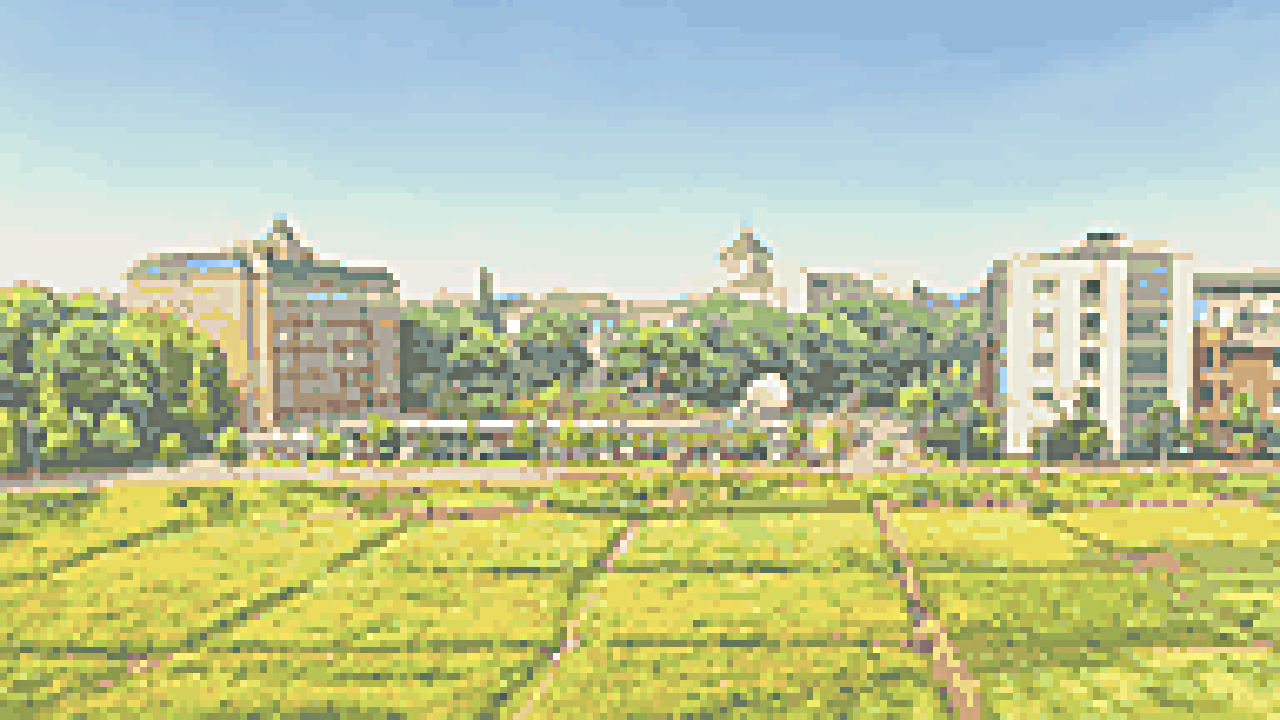
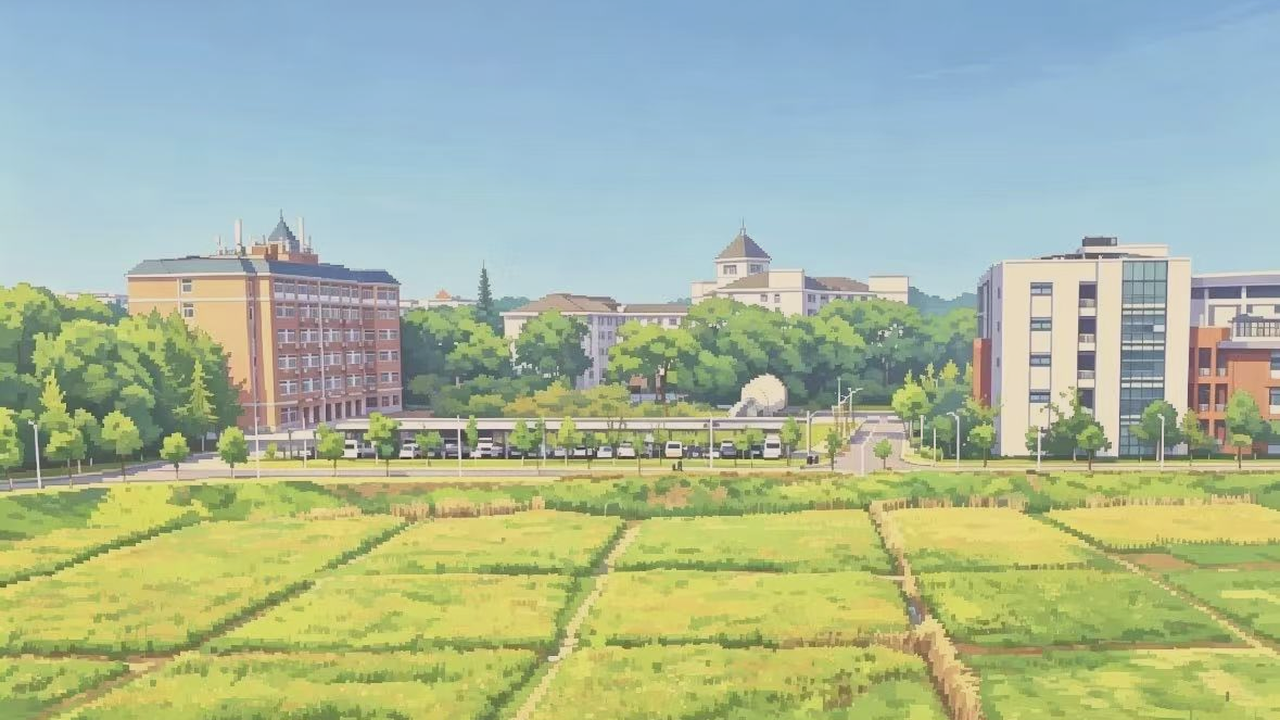
fix: stabilize homepage navigation and add campus updates

diff --git a/src/main.jsx b/src/main.jsx
@@ -98,7 +98,9 @@ function Sidebar({ active, setActive, user, onLogout }) {
 }
 
 function TopBar({ user, onCreate }) {
-  return <header className="topbar"><div className="mobile-brand brand"><span className="brand-mark"><Icon name="spark" size={16}/></span><span>拾光校园</span></div><div className="topbar-title"><span>星期三，9月 9日</span><strong>你好，{user.name}</strong></div><div className="topbar-actions"><button className="icon-btn" title="通知"><span className="notification-dot"/><Icon name="spark" size={18}/></button>{user.role === 'teacher' && <button className="primary-btn compact" onClick={onCreate}><Icon name="plus" size={16}/>发布活动</button>}<span className="avatar large">{user.name.slice(0, 1)}</span></div></header>;
+  const [notificationsOpen, setNotificationsOpen] = useState(false);
+  const [unread, setUnread] = useState(true);
+  return <header className="topbar"><div className="mobile-brand brand"><span className="brand-mark"><Icon name="spark" size={16}/></span><span>拾光校园</span></div><div className="topbar-title"><span>星期三，9月 9日</span><strong>你好，{user.name}</strong></div><div className="topbar-actions"><div className="notification-wrap"><button className={`icon-btn ${notificationsOpen ? 'active' : ''}`} title="校园动态" aria-label="打开校园动态" aria-expanded={notificationsOpen} onClick={() => { setNotificationsOpen(open => !open); setUnread(false); }}><span className={`notification-dot ${unread ? '' : 'is-read'}`}/><Icon name="spark" size={18}/></button>{notificationsOpen && <div className="notification-panel" role="status"><div className="notification-heading"><div><strong>校园动态</strong><span>及时了解活动变化</span></div><button className="notification-close" onClick={() => setNotificationsOpen(false)}><Icon name="close" size={14}/></button></div><div className="notification-item"><span className="notification-badge"><Icon name="calendar" size={14}/></span><div><strong>本周新增活动</strong><p>讲座、社团与运动活动正在持续更新。</p></div></div><div className="notification-item"><span className="notification-badge green"><Icon name="heart" size={14}/></span><div><strong>别忘了查看我的日程</strong><p>已报名的活动会集中显示在你的日程中。</p></div></div><button className="notification-action" onClick={() => { setNotificationsOpen(false); document.querySelector('.activity-section')?.scrollIntoView({ behavior: 'smooth', block: 'start' }); }}>浏览本周活动 <Icon name="arrow" size={14}/></button></div>}</div>{user.role === 'teacher' && <button className="primary-btn compact" onClick={onCreate}><Icon name="plus" size={16}/>发布活动</button>}<span className="avatar large">{user.name.slice(0, 1)}</span></div></header>;
 }
 
 function Hero({ onExplore }) {
@@ -129,7 +131,7 @@ function Overview({ user, onCreate, refreshToken = 0 }) {
   const load = async () => { setLoading(true); const params = new URLSearchParams({ status: 'published' }); if (query) params.set('q', query); if (category !== '全部') params.set('category', category); const { activities } = await api(`/activities?${params}`); setActivities(activities); setLoading(false); };
   useEffect(() => { load().catch(() => setLoading(false)); }, [query, category, refreshToken]);
   const join = async activity => { try { const { activity: updated } = await api(`/activities/${activity.id}/join`, { method: 'POST', body: JSON.stringify({ userId: user.id }) }); setActivities(items => items.map(item => item.id === updated.id ? updated : item)); setSelected(updated); setToast('报名成功，已加入你的日程'); setTimeout(() => setToast(''), 2600); } catch (err) { setToast(err.message); setTimeout(() => setToast(''), 2600); } };
-  return <div className="page-content"><Hero onExplore={() => document.querySelector('.activity-section')?.scrollIntoView({ behavior: 'smooth' })}/><section className="activity-section"><div className="section-heading"><div><span className="overline">DISCOVER</span><h2>本周值得参加</h2></div><button className="link-btn" onClick={() => { setCategory('全部'); setQuery(''); }}>查看全部 <Icon name="arrow" size={15}/></button></div><div className="toolbar"><div className="search-box"><Icon name="search" size={17}/><input value={query} onChange={e => setQuery(e.target.value)} placeholder="搜索活动、地点或组织方"/></div><div className="category-tabs">{categories.map(item => <button key={item} className={category === item ? 'active' : ''} onClick={() => setCategory(item)}>{item}</button>)}</div></div>{loading ? <div className="loading-state">正在加载活动…</div> : activities.length ? <div className="activity-grid">{activities.map(a => <ActivityCard key={a.id} activity={a} user={user} onJoin={join} onOpen={setSelected}/>)}</div> : <div className="empty-state"><div className="empty-icon"><Icon name="search" size={22}/></div><h3>没有找到匹配的活动</h3><p>换个关键词，或者看看全部活动。</p></div>}</section>{selected && <ActivityModal activity={selected} user={user} onClose={() => setSelected(null)} onJoin={join}/>} {toast && <div className="toast"><span><Icon name={toast.includes('成功') ? 'check' : 'spark'} size={15}/></span>{toast}</div>}</div>;
+  return <div className="page-content"><Hero onExplore={() => document.querySelector('.activity-section')?.scrollIntoView({ behavior: 'smooth', block: 'start' })}/><section className="activity-section"><div className="section-heading"><div><span className="overline">DISCOVER</span><h2>本周值得参加</h2></div><button className="link-btn" onClick={() => { setCategory('全部'); setQuery(''); }}>查看全部 <Icon name="arrow" size={15}/></button></div><div className="toolbar"><div className="search-box"><Icon name="search" size={17}/><input value={query} onChange={e => setQuery(e.target.value)} placeholder="搜索活动、地点或组织方"/></div><div className="category-tabs">{categories.map(item => <button key={item} className={category === item ? 'active' : ''} onClick={() => setCategory(item)}>{item}</button>)}</div></div>{loading ? <div className="loading-state">正在加载活动…</div> : activities.length ? <div className="activity-grid">{activities.map(a => <ActivityCard key={a.id} activity={a} user={user} onJoin={join} onOpen={setSelected}/>)}</div> : <div className="empty-state"><div className="empty-icon"><Icon name="search" size={22}/></div><h3>没有找到匹配的活动</h3><p>换个关键词，或者看看全部活动。</p></div>}</section>{selected && <ActivityModal activity={selected} user={user} onClose={() => setSelected(null)} onJoin={join}/>} {toast && <div className="toast"><span><Icon name={toast.includes('成功') ? 'check' : 'spark'} size={15}/></span>{toast}</div>}</div>;
 }
 
 function Manage({ user, onCreate, onEdit, refreshToken = 0 }) {

diff --git a/src/styles.css b/src/styles.css
@@ -11,4 +11,33 @@
 .hero-note{z-index:1}
 .cover-image{background-size:cover;background-position:center}
 .cover-image:after{content:'';position:absolute;inset:0;background:linear-gradient(180deg,rgba(13,35,56,.05),rgba(13,35,56,.24))}
+
+/* Keep the hero copy and its primary action anchored at every desktop width. */
+.hero{height:auto;min-height:275px}
+.hero-copy{display:flex;flex-direction:column;justify-content:center;align-items:flex-start;flex:0 1 49%;width:auto;min-width:0}
+.hero-btn{align-self:flex-start;position:relative;z-index:3}
+.hero-art{min-width:0;min-height:275px}
+.activity-section{scroll-margin-top:24px}
+
+.notification-wrap{position:relative}
+.icon-btn.active{background:#eef3f4;border-color:#d6e3e2;color:var(--orange)}
+.notification-dot.is-read{display:none}
+.notification-panel{position:absolute;right:0;top:45px;width:300px;max-width:calc(100vw - 34px);padding:15px;background:#fff;border:1px solid var(--line);border-radius:12px;box-shadow:0 18px 42px rgba(16,36,62,.16);z-index:12}
+.notification-heading{display:flex;align-items:flex-start;justify-content:space-between;gap:12px;padding-bottom:12px;border-bottom:1px solid #edf0f3}
+.notification-heading>div{display:flex;flex-direction:column;gap:3px}
+.notification-heading strong{font-size:13px;color:var(--ink)}
+.notification-heading span{font-size:10px;color:var(--muted)}
+.notification-close{width:24px;height:24px;display:grid;place-items:center;border-radius:6px;color:#8b98a8}
+.notification-close:hover{background:#f2f5f6;color:var(--ink)}
+.notification-item{display:flex;gap:10px;padding:13px 0;border-bottom:1px solid #edf0f3}
+.notification-item>div{min-width:0}
+.notification-item strong{display:block;font-size:11px;color:var(--ink);margin-bottom:4px}
+.notification-item p{font-size:10px;line-height:1.5;color:var(--muted);margin:0}
+.notification-badge{width:26px;height:26px;border-radius:7px;display:grid;place-items:center;background:#fff0e9;color:#d16d4b;flex:none}
+.notification-badge.green{background:#e8f5ef;color:#4d9a7d}
+.notification-action{display:flex;align-items:center;justify-content:center;gap:6px;width:100%;margin-top:12px;padding:9px 10px;border-radius:7px;background:var(--navy);color:#fff;font-size:11px;font-weight:700}
+.notification-action:hover{background:#1b385c}
+
+@media (max-width:1000px){.hero-copy{flex:0 1 56%;width:auto}}
+@media (max-width:720px){.hero-copy{display:block;width:100%;min-height:245px}.hero-art{min-height:170px}}
 .cover-image .cover-shape{z-index:1}

diff --git a/scripts/generate_pixel_assets.py b/scripts/generate_pixel_assets.py
@@ -4,28 +4,39 @@ import argparse
 import json
 from pathlib import Path
 
-from PIL import Image, ImageEnhance, ImageFilter
+from PIL import Image, ImageEnhance
 
 
 VARIANTS = {
-    "campus-gate-main": ("gate", "#f1a67f", 0.16),
-    "campus-library": ("library", "#84c8ba", 0.13),
-    "campus-train": ("train", "#e8ad69", 0.14),
-    "campus-lane": ("lane", "#74b5b1", 0.13),
-    "campus-panorama": ("panorama", "#a7d38d", 0.10),
-    "campus-gate-dusk": ("gate", "#334e82", 0.26),
-    "campus-library-night": ("library", "#52618c", 0.23),
-    "campus-train-retro": ("train", "#c9825d", 0.22),
-    "campus-lane-summer": ("lane", "#80b96a", 0.18),
-    "campus-panorama-evening": ("panorama", "#dd9b76", 0.20),
+    "campus-gate-main": ("gate", "day"),
+    "campus-library": ("library", "day"),
+    "campus-train": ("train", "day"),
+    "campus-lane": ("lane", "day"),
+    "campus-panorama": ("panorama", "day"),
+    "campus-gate-dusk": ("gate", "dusk"),
+    "campus-library-night": ("library", "night"),
+    "campus-train-retro": ("train", "retro"),
+    "campus-lane-summer": ("lane", "summer"),
+    "campus-panorama-evening": ("panorama", "evening"),
 }
 
+# The five supplied illustrations are already in the requested clean 16-bit style.
 SOURCE_NAMES = {
-    "gate": "5c6ca776a54cddb00a078f3d6f8108eb.jpg",
-    "library": "b22a8dfd28574b3f9b2e8474c6c50f87.jpg",
-    "train": "a9a0332e73bf940c5a5ec3cdd8593ec2.jpg",
-    "lane": "d7f4df238dec4ec328782938983d4bcc.jpg",
-    "panorama": "40be7ced0a179ffbe175f7845ba3f439.jpg",
+    "gate": "0aebd01ef48df7b52ffe007a77b5f30f.jpg",
+    "library": "829f475ecb2fca92a5dd73987b1ead42.jpg",
+    "train": "18b84f5a522c23275017a1724aae66d5.jpg",
+    "lane": "0cedfc0cd20aad901036233efb75b5df.jpg",
+    "panorama": "b3c91d1d46922276bcd2c0cf63436a0e.jpg",
+}
+
+# Variants preserve the source art and only apply restrained color grading.
+TONE_STYLES = {
+    "day": ("#ffffff", 0.00, 1.00),
+    "dusk": ("#5e659c", 0.16, 0.92),
+    "night": ("#243c72", 0.25, 0.78),
+    "retro": ("#d58b63", 0.13, 0.96),
+    "summer": ("#91c95d", 0.10, 1.06),
+    "evening": ("#de8d74", 0.14, 0.94),
 }
 
 
@@ -41,35 +52,34 @@ def crop_to_ratio(image: Image.Image, ratio: float = 16 / 9) -> Image.Image:
     return image.crop((0, top, width, top + crop_height))
 
 
-def pixelize(source: Path, output: Path, tint: str, amount: float) -> None:
+def pixelize(source: Path, output: Path, tone: str) -> None:
     image = crop_to_ratio(Image.open(source).convert("RGB"))
-    small = image.resize((192, 108), Image.Resampling.LANCZOS)
-    small = ImageEnhance.Color(small).enhance(1.12)
-    small = ImageEnhance.Contrast(small).enhance(1.04)
-    small = small.quantize(colors=56, method=Image.Quantize.MEDIANCUT).convert("RGB")
-    tinted = Image.new("RGB", small.size, tint)
-    small = Image.blend(small, tinted, amount)
-    small = small.filter(ImageFilter.UnsharpMask(radius=0.7, percent=110, threshold=3))
-    final = small.resize((1280, 720), Image.Resampling.NEAREST)
+    image = image.resize((1280, 720), Image.Resampling.LANCZOS)
+    tint, amount, brightness = TONE_STYLES[tone]
+    if amount:
+        image = Image.blend(image, Image.new("RGB", image.size, tint), amount)
+    if brightness != 1:
+        image = ImageEnhance.Brightness(image).enhance(brightness)
     output.parent.mkdir(parents=True, exist_ok=True)
-    final.save(output, optimize=True)
+    image.save(output, optimize=True, quality=95)
 
 
 def main() -> None:
-    parser = argparse.ArgumentParser(description="Create pixel-art campus assets from supplied campus photos.")
+    parser = argparse.ArgumentParser(description="Prepare supplied HJTU 16-bit campus illustrations.")
     parser.add_argument("--source-dir", type=Path, default=Path(r"C:\Users\ASUS\Desktop"))
     parser.add_argument("--output-dir", type=Path, default=Path("public/assets/campus-pixel"))
+    parser.add_argument("--style-reference", type=Path, default=None, help="Compatibility option; source illustrations define the style.")
     args = parser.parse_args()
     manifest = {}
-    for name, (source_key, tint, amount) in VARIANTS.items():
+    for name, (source_key, tone) in VARIANTS.items():
         source = args.source_dir / SOURCE_NAMES[source_key]
         if not source.exists():
             raise FileNotFoundError(f"Missing source image: {source}")
         output = args.output_dir / f"{name}.png"
-        pixelize(source, output, tint, amount)
+        pixelize(source, output, tone)
         manifest[name] = f"/assets/campus-pixel/{output.name}"
     (args.output_dir / "manifest.json").write_text(json.dumps(manifest, ensure_ascii=False, indent=2), encoding="utf-8")
-    print(f"Generated {len(manifest)} pixel assets in {args.output_dir}")
+    print(f"Generated {len(manifest)} supplied-style pixel assets in {args.output_dir}")
 
 
 if __name__ == "__main__":
